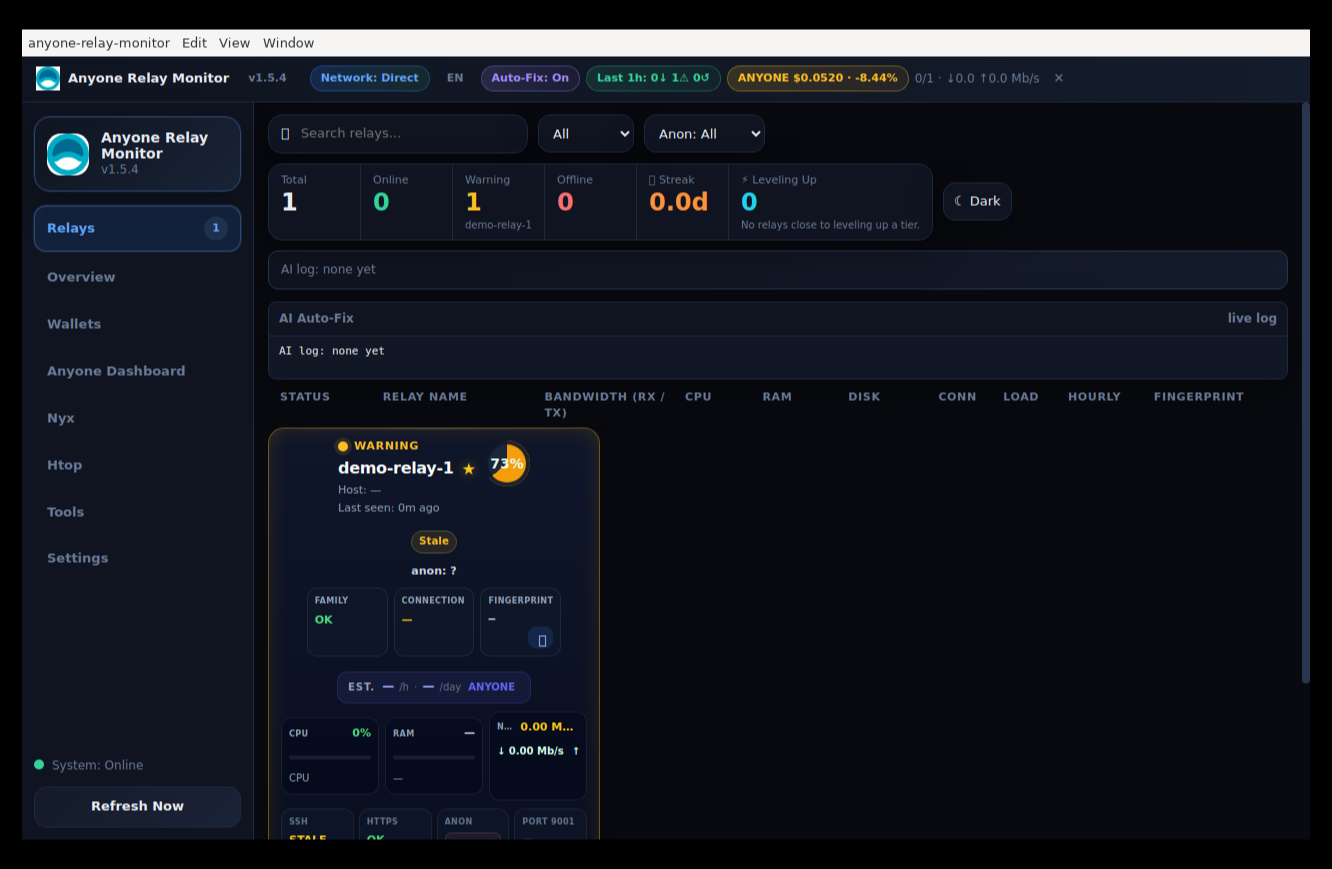
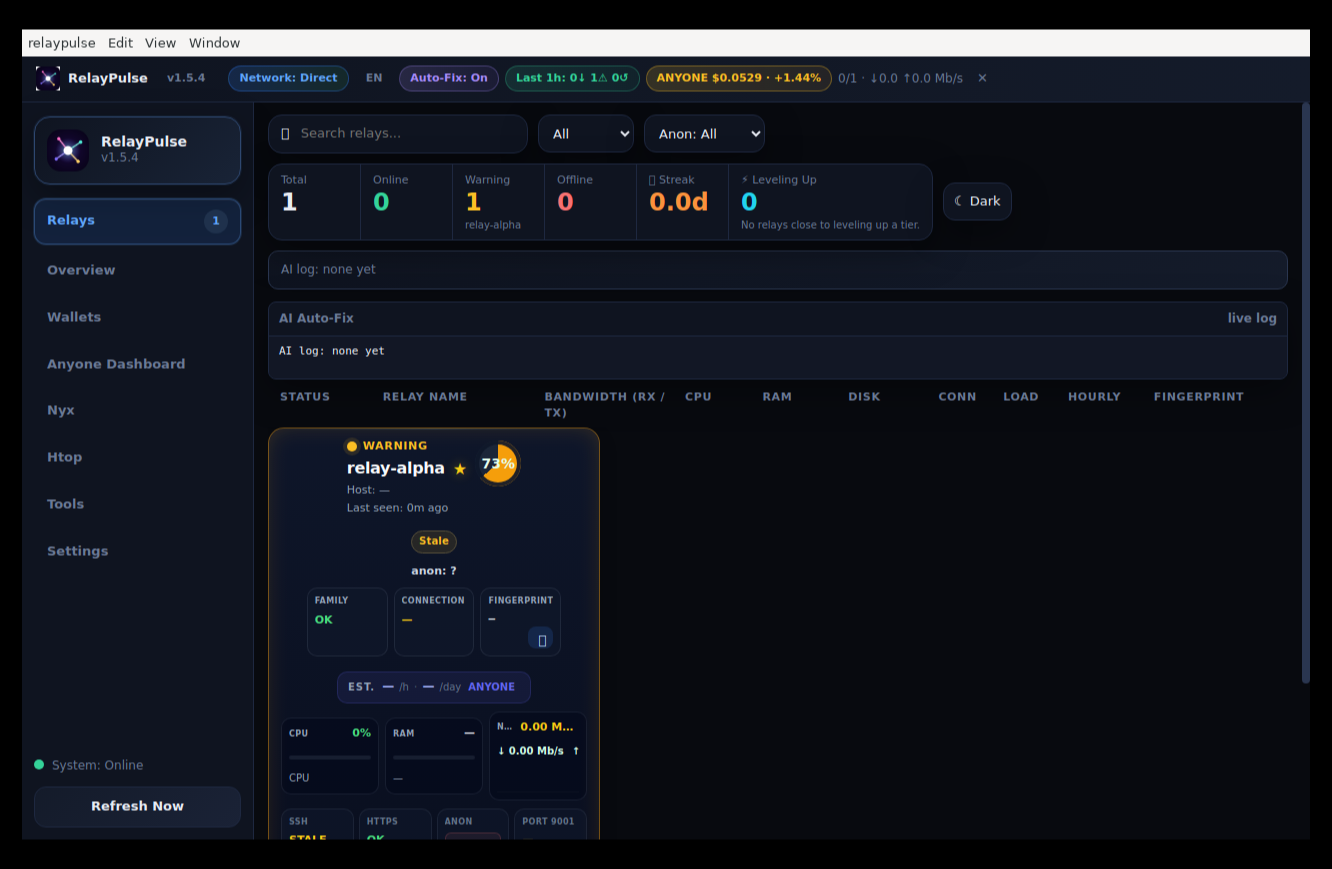
Rebrand to RelayPulse

diff --git a/index.html b/index.html
@@ -3,8 +3,8 @@
 <head>
   <meta charset="utf-8">
   <meta name="viewport" content="width=device-width, initial-scale=1">
-  <title>Anyone Relay Monitor — SSH monitoring &amp; AI auto-fix for Anyone Protocol relays</title>
-  <meta name="description" content="Real-time SSH monitoring, AI-powered auto-fix, and reward tracking for Anyone Protocol relay/exit node operators. Windows &amp; Linux.">
+  <title>RelayPulse — SSH monitoring &amp; AI auto-fix for Anyone Protocol relays</title>
+  <meta name="description" content="RelayPulse: real-time SSH monitoring, AI-powered auto-fix, and reward tracking for Anyone Protocol relay/exit node operators. Windows &amp; Linux.">
   <link rel="icon" href="assets/icon.png">
   <style>
     :root {
@@ -123,8 +123,8 @@
 <body>
   <div class="wrap">
     <header class="top">
-      <img src="assets/icon.png" alt="Anyone Relay Monitor">
-      <span class="name">Anyone Relay Monitor</span>
+      <img src="assets/icon.png" alt="RelayPulse">
+      <span class="name">RelayPulse</span>
     </header>
 
     <div class="hero">
@@ -138,7 +138,7 @@
     </div>
 
     <div class="screenshot">
-      <img src="assets/screenshot-dashboard.png" alt="Anyone Relay Monitor dashboard showing a relay card with live status">
+      <img src="assets/screenshot-dashboard.png" alt="RelayPulse dashboard showing a relay card with live status">
     </div>
 
     <section class="features">
@@ -203,7 +203,7 @@
     </section>
 
     <footer>
-      Anyone Relay Monitor is an independent tool for Anyone Protocol relay operators — not affiliated with the Anyone Protocol project.
+      RelayPulse is an independent tool for Anyone Protocol relay operators — not affiliated with the Anyone Protocol project.
       <br>Questions or support: <a href="mailto:baris.adiy1974@gmail.com" style="color:var(--accent)">baris.adiy1974@gmail.com</a>
     </footer>
   </div>
